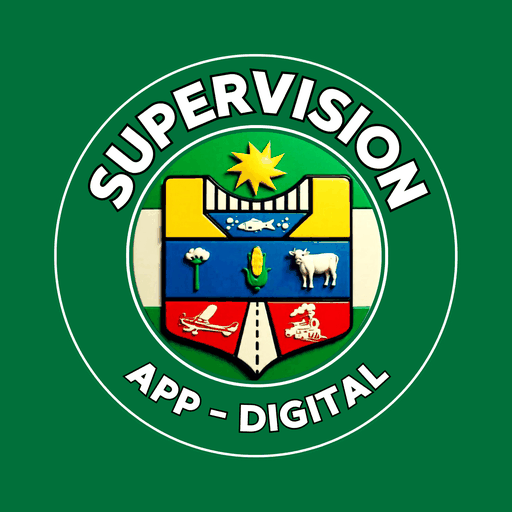
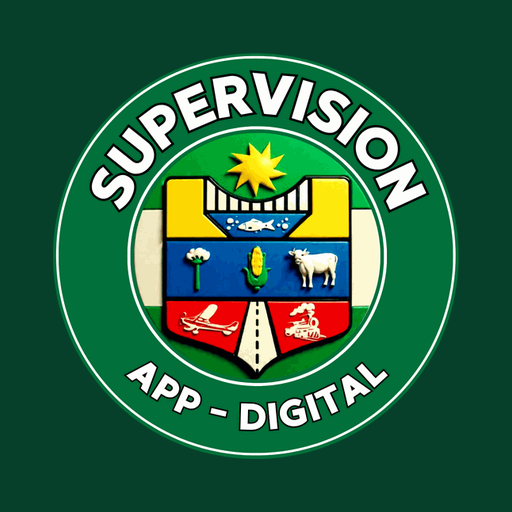
Pantalla de inicio en verde (#06402B) e ícono adaptable como Sec. Hacienda
Claude-Session: https://claude.ai/code/session_01HQv1CU1othCrocWoLrWBVM

diff --git a/version.js b/version.js
@@ -13,4 +13,4 @@
 
    Formato: año.mes.día.consecutivo del día.
    ============================================================ */
-var APP_VERSION = "2026.09.28.1";
+var APP_VERSION = "2026.09.28.2";
